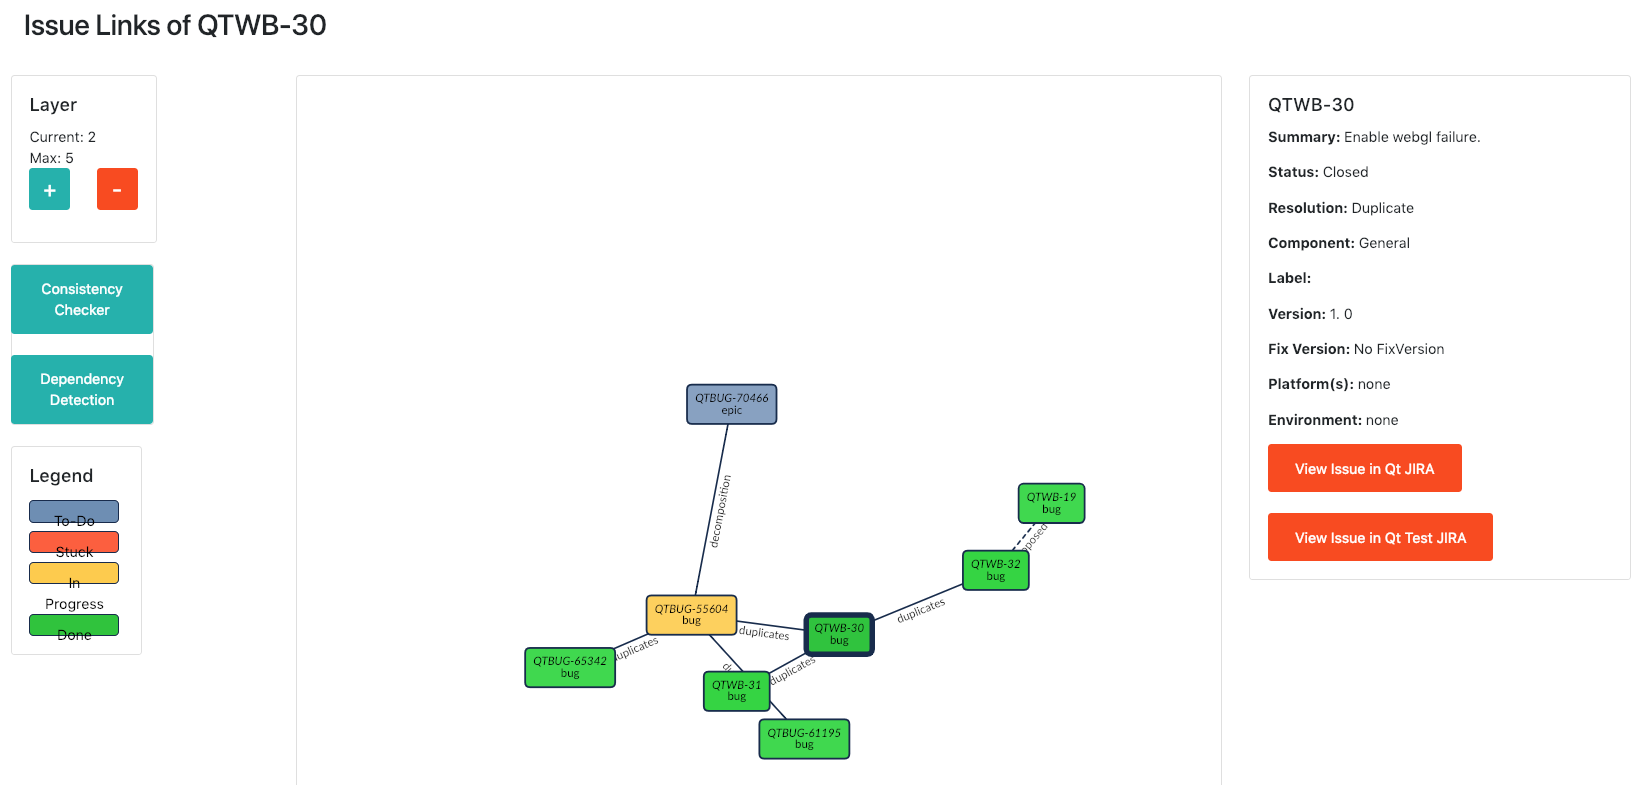
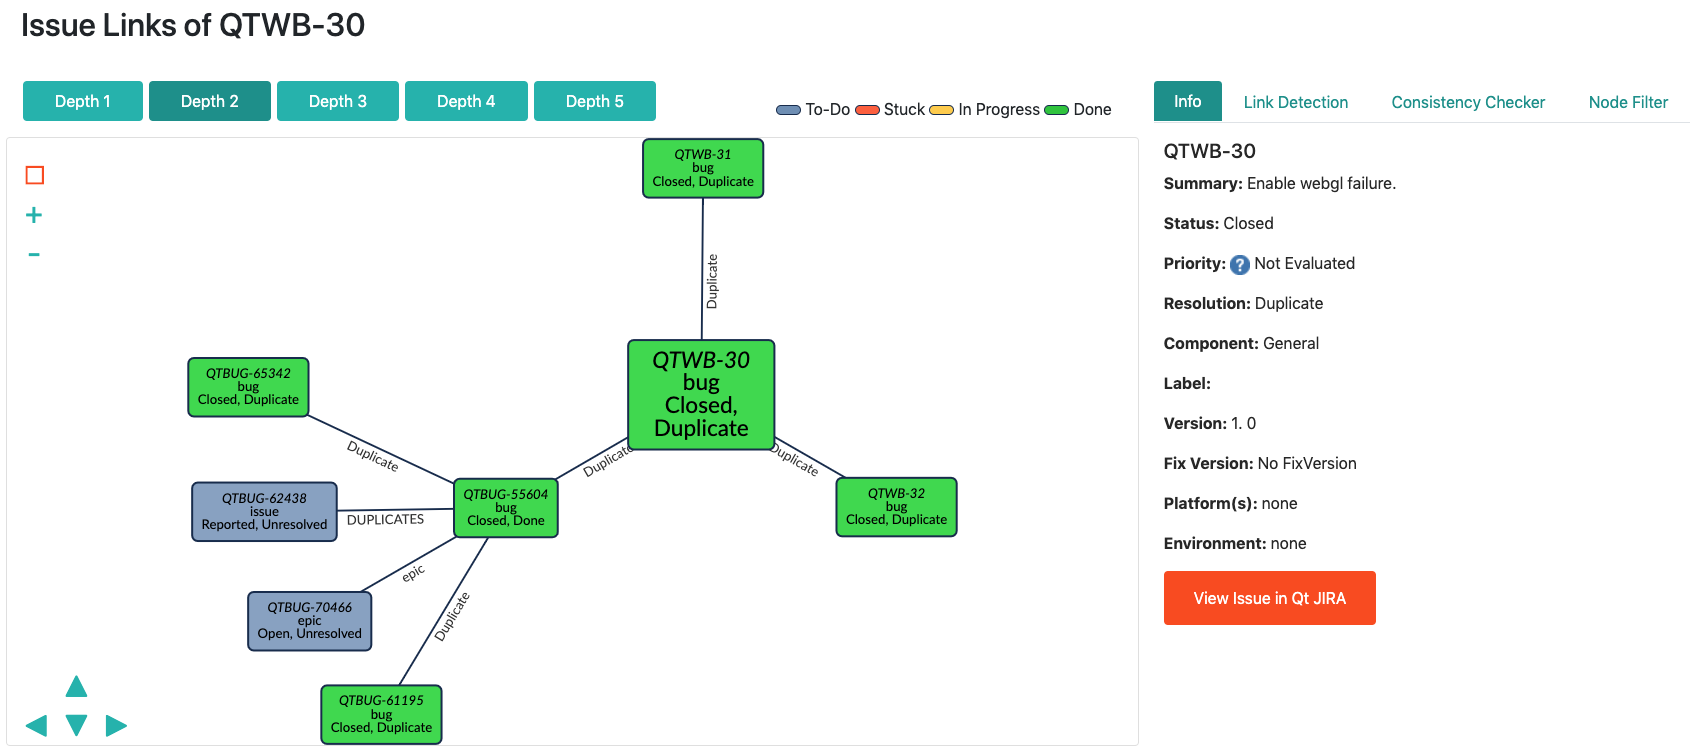
Readme update and text

diff --git a/README.md b/README.md
@@ -3,6 +3,7 @@
 This web application was created as a result of the OpenReq project funded by the European Union Horizon 2020 Research and Innovation programme under grant agreement No 732463.
 
 This web application visualizes the links between issues inside Qt’s JIRA. It uses the microservices of UH ([API references](https://api.openreq.eu/#/services/milla)) to manage links and the similarity detection of UPC ([API references](https://api.openreq.eu/#/services/similarity-detection)) to recommend missing links.
+The OpenReq services [milla](https://github.com/OpenReqEU/milla), [mallikas](https://github.com/OpenReqEU/mallikas), [keljucaas](https://github.com/OpenReqEU/keljucaas), [mulperi](https://github.com/OpenReqEU/mulperi), [palmu](https://github.com/OpenReqEU/palmu), [nikke](https://github.com/OpenReqEU/nikke) and the [similarity detection](https://github.com/OpenReqEU/similarity-detection) are used by this web application and need to be running in order for the web application to function.
 
 ## Technical description
 ### Technologies used
@@ -26,18 +27,21 @@ The user can drag items and add or remove layers.
 Checking if the issues in the link map do not have conflicting link type and priority and displaying the result.
 - *Filtering* the issue link map for specified properties
 To support the user in navigating this link network filters should be in place to hide issues depending on their status, the link type between them.
-
-#### Functionalities in development
 - *Accepting & rejecting* proposed links
 The results of a link detection are also visualized, this view should can be toggled on and off for a specific issue. While the link detection is enabled the user is given a list where he can decide what type of link should be used or if this proposed link should not be a link.
+
+#### Functionalities in development
+- *Full Integration* into Jira as a *Jira plug-in*
+Currently, accepted and rejected links are not written into the Jira database, just back to mallikas.
+- *Add more filter options*
+Adding more filter options to also filter f.e. egdes
 
 #### Functionalities planned
 - *Editing* links
 By right-clicking an edge, the user can change the link type, switch direction or remove the link
-- *Full Integration* into Jira as a *Jira plug-in*
 
 ### Accessing the application
-The application is accessible here: https://api.openreq.eu/openreq-issue-link-map/
+The application is accessible [here](https://api.openreq.eu/openreq-issue-link-map/)
 
 !This is currently broken! Additionally, a connection to the tool is in https://bugreports-test.qt.io/secure/Dashboard.jspa. This connection is created by installing the ["jira-redirction" plugin](https://github.com/OpenReqEU/jira-redirection).
 
@@ -49,13 +53,14 @@ You first need to deploy the following OpenReq microservices:
 [palmu](https://github.com/OpenReqEU/palmu)
 [milla](https://github.com/OpenReqEU/milla)
 [nikke](https://github.com/OpenReqEU/nikke)
-Mallikas is a database that Qthulhu accesses over milla, so it should contain the issues you want to visualize.
+[similarity detection](https://github.com/OpenReqEU/similarity-detection) 
+Mallikas is a database that Qthulhu accesses over milla, so it needs to contain the issues you want to visualize.
 
 ### Change properties of Qthulhu
 In src/main/java/eu.openreq.qt.qthulhu change the URLs in the class Property to the corresponding endpoints of your deployment of milla.
 
 ### Adapt Qthulhu
-You might need to adapt the colorPaletteStatus and arrowPaletteType in Qthulhus issue.jsp and issueid.jsp to the words used in your Jira.
+You might need to adapt the colorPaletteStatus and arrowPaletteType in Qthulhus issueid.jsp to the words used in your Jira.
 
 ### Create .war
 This is a maven project, so use 
@@ -68,7 +73,7 @@ java -jar qthulhu-webapp-1.0.war
 ```
 
 ### How to use
-You can directly search for an issue here https://api.openreq.eu/openreq-issue-link-map/.
+You can directly search for an issue [here](https://api.openreq.eu/openreq-issue-link-map/).
 ![Search1](https://github.com/OpenReqEU/qthulhu/blob/master/pics/Search1.png)
 
 for example Issue: QTWB-30 and layer 2.
@@ -80,15 +85,25 @@ which will then give you the LinkMap for issue QTWB-30 with layer 2.
 Alternatively, you can access the test instance of Qt's jira https://bugreports-test.qt.io/secure/Dashboard.jspa and search for an issue. On the view page you can scroll down Issue Links, underneath this you will find OpenReq Dependency Browser (old name, needs to be updated to OpenReq Link Map)
 ![Search3](https://github.com/OpenReqEU/qthulhu/blob/master/pics/Search3.png)
 
+You then can use the node filter, to filter the link map for the status, type or priority. Per default, issues with status done are not shown.
+![Filter](https://github.com/OpenReqEU/qthulhu/blob/master/pics/Filter.png)
+
+To check a release plan for inconsistencies in the issues and links, you can use the consistency checker. It searches the link map up to depth 5 for inconsistencies. It also lists all releases and the found inconsistencies.
+![ConsistencyCheck](https://github.com/OpenReqEU/qthulhu/blob/master/pics/ConsistencyCheck.png)
+
+The link detection searches for an issue potentially linked issues which are not linked in Jira. These missing links are then recommended and can be accepted or rejected by the users. Currently these changes are not written to the Jira database.
+![LinkDetection](https://github.com/OpenReqEU/qthulhu/blob/master/pics/LinkDetection.png)
+
+
 #### What does this application do?
-Visualising the link network, recommending missing links and checking the consistency of your releaseplans.
+Visualising the link network, recommending missing links and checking the consistency of your release plans.
 
 ### What’s next?
 - Editing links on the fly
 - Transform this from a web-application to a jira plugin
 
 ### Challenges
-Only the public issues are available. If a person has a Qt account, they should be able to see all the issues In the link map that they would be able to see in JIRA.
+Only the public issues are available. If a person has a Qt account, they should be able to see all the issues In the link map that they would be able to see in JIRA. Additionally, the ability to accept, reject and edit links need to be tied to the permisisons the user has in Jira.
 
 ### Technical structure
 ![techstructure](https://github.com/OpenReqEU/qthulhu/blob/master/pics/TechnicalStructure.png)
